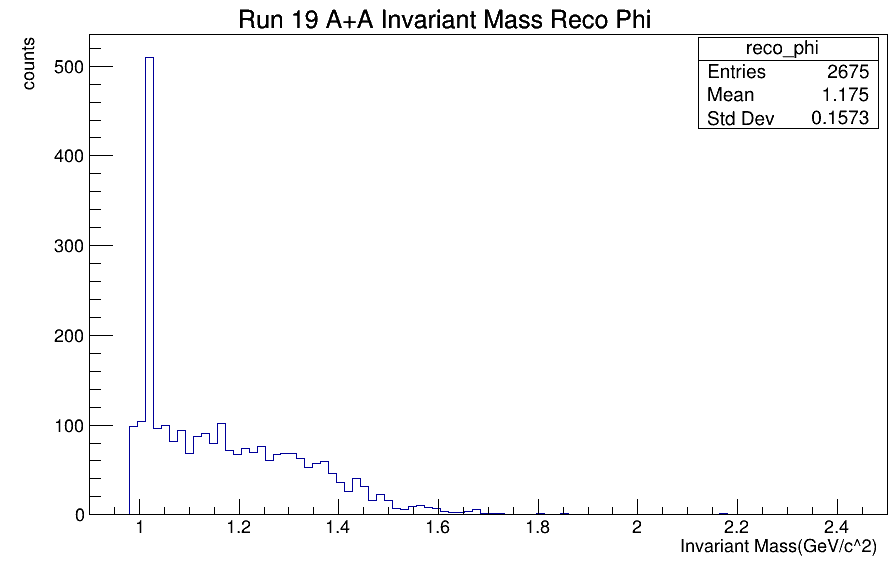
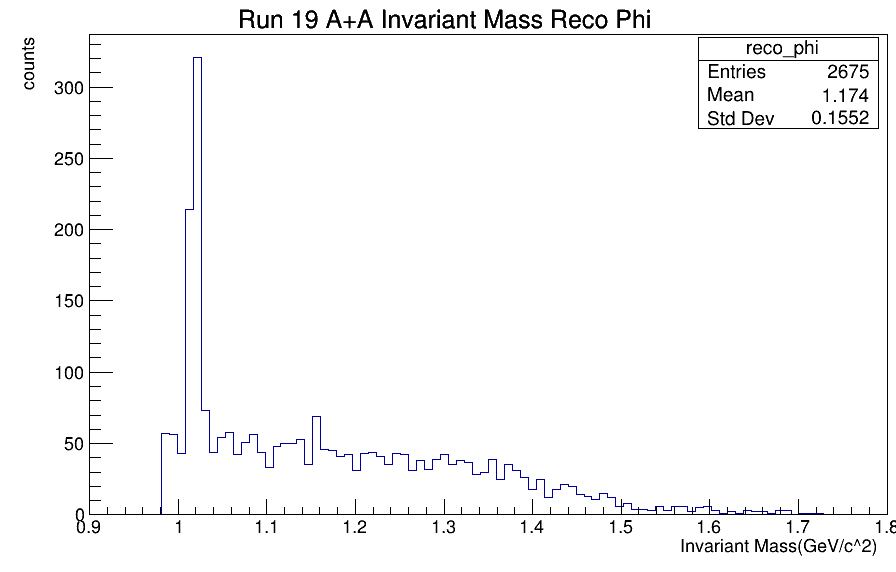
added starlight electron histogram

diff --git a/phi_selection_pt_resolution/daughter_distribution.C b/phi_selection_pt_resolution/daughter_distribution.C
@@ -26,25 +26,23 @@ void makeCan() {
 void daughter_distribution() {
 
   // histograms for all tracks
-  TH1F *all_DCA =
-      new TH1F("All Tracks", "Run 19 A+A DCA All Tracks;DCA;counts",
-               100, 0., 3.);
+  TH1F *all_DCA = new TH1F("All Tracks", "Run 19 A+A DCA All Tracks;DCA;counts",
+                           100, 0., 3.);
 
-  TH1F *all_pt = new TH1F("All Tracks",
-                          "Run 19 A+A P_{T} All Tracks;P_T(GeV/c);counts",
-                          100, 0., 1.8);
+  TH1F *all_pt =
+      new TH1F("All Tracks", "Run 19 A+A P_{T} All Tracks;P_T(GeV/c);counts",
+               100, 0., 1.8);
   TH1F *all_eta = new TH1F(
       "All Tracks", "Run 19 A+A #eta All Tracks;#eta;counts", 100, -4., 4.);
   TH1F *all_phi =
-      new TH1F("All Tracks", "Run 19 A+A #phi All Tracks;#phi(rad);counts",
-               100, -3.15, 3.15);
-  TH1F *all_Npion =
-      new TH1F("All Tracks",
-               "Run 19 A+A N#sigma#pi All Tracks;(N#sigmaPion);counts",
-               100, -10, 10);
-  TH1F *all_Nkaon = new TH1F(
-      "All Tracks", "Run 19 A+A N#sigmaK All Tracks;(N#sigmaKaon);counts",
+      new TH1F("All Tracks", "Run 19 A+A #phi All Tracks;#phi(rad);counts", 100,
+               -3.15, 3.15);
+  TH1F *all_Npion = new TH1F(
+      "All Tracks", "Run 19 A+A N#sigma#pi All Tracks;(N#sigmaPion);counts",
       100, -10, 10);
+  TH1F *all_Nkaon = new TH1F(
+      "All Tracks", "Run 19 A+A N#sigmaK All Tracks;(N#sigmaKaon);counts", 100,
+      -10, 10);
 
   // histogram for kaon canidataes
   TH1F *kaon_DCA =
@@ -55,28 +53,27 @@ void daughter_distribution() {
       "Kaon Candidates", "Run 19 A+A P_{T} Kaon Candidates;P_{T}(GeV/c);counts",
       100, 0., 1.);
   TH1F *kaon_eta =
-      new TH1F("Kaon Candidates",
-               "Run 19 A+A #eta Kaon Candidates;#eta;counts", 100, -2., 2.);
-  TH1F *kaon_phi = new TH1F(
-      "Kaon Candidates", "Run 19 A+A #phi Kaon Candidates;#phi(rad);counts",
-      100, -3.15, 3.15);
-  TH1F *kaon_Npion =
-      new TH1F("Kaon Candidates",
-               "Run 19 A+A N#sigmaPion Kaon Candidates;N#sigmaPion;counts",
-               100, 5, 30);
-  TH1F *kaon_Nkaon =
-      new TH1F("Kaon Cnadidates",
-               "Run 19 A+A N#sigmaKaon Kaon Candidates;N#sigmaKaon;counts",
-               100, -5, 5);
+      new TH1F("Kaon Candidates", "Run 19 A+A #eta Kaon Candidates;#eta;counts",
+               100, -2., 2.);
+  TH1F *kaon_phi = new TH1F("Kaon Candidates",
+                            "Run 19 A+A #phi Kaon Candidates;#phi(rad);counts",
+                            100, -3.15, 3.15);
+  TH1F *kaon_Npion = new TH1F(
+      "Kaon Candidates",
+      "Run 19 A+A N#sigmaPion Kaon Candidates;N#sigmaPion;counts", 100, 5, 30);
+  TH1F *kaon_Nkaon = new TH1F(
+      "Kaon Cnadidates",
+      "Run 19 A+A N#sigmaKaon Kaon Candidates;N#sigmaKaon;counts", 100, -5, 5);
 
   TH1F *kaon_pm_ratio = new TH1F(
       "Kaon Candidates",
       "Run 19 A+A Charge Sum Kaon Candidates;Charge Sum;counts", 27, -2.2, 2.2);
 
   // histogram for reco phi
-  TH1F *reco_phi_mass =
-      new TH1F("reco_phi ", "Run 19 A+A Invariant Mass Reco Phi ;Invariant Mass(GeV/c^2);counts",
-               100, 0.9, 2.5);
+  TH1F *reco_phi_mass = new TH1F(
+      "reco_phi ",
+      "Run 19 A+A Invariant Mass Reco Phi ;Invariant Mass(GeV/c^2);counts", 100,
+      0.9, 1.8);
 
   TH1F *reco_phi_pt =
       new TH1F("reco_phi ", "Run 19 A+A P_{T} Reco Phi ;P_{T}(GeV/c);counts",
@@ -86,12 +83,13 @@ void daughter_distribution() {
       "reco_phi ", "Run 19 A+A #eta Reco Phi ;#eta;counts", 100, -4., 4.);
 
   TH1F *reco_phi_phi =
-      new TH1F("reco_phi ", "Run 19 A+A #phi Reco Phi ;#phi(rad);counts",
-               100, -3.15, 3.15);
+      new TH1F("reco_phi ", "Run 19 A+A #phi Reco Phi ;#phi(rad);counts", 100,
+               -3.15, 3.15);
 
   // histogram for same charge
   TH1F *KpKp_mass = new TH1F(
-      "KpKp ", "Run 19 A+A Invariant Mass K+K+ ;Invariant Mass(GeV/c^2);counts", 100, 0.9, 1.5);
+      "KpKp ", "Run 19 A+A Invariant Mass K+K+ ;Invariant Mass(GeV/c^2);counts",
+      100, 0.9, 1.5);
 
   TH1F *KpKp_pt = new TH1F(
       "KpKp ", "Run 19 A+A P_{T} K+K+ ;P_{T}(GeV/c);counts", 100, 0., 1.6);
@@ -99,11 +97,12 @@ void daughter_distribution() {
   TH1F *KpKp_eta =
       new TH1F("KpKp ", "Run 19 A+A #eta K+K+ ;#eta;counts", 100, -4., 4.);
 
-  TH1F *KpKp_phi = new TH1F(
-      "KpKp ", "Run 19 A+A #phi K+K+ ;#phi(rad);counts", 100, -3.15, 3.15);
+  TH1F *KpKp_phi = new TH1F("KpKp ", "Run 19 A+A #phi K+K+ ;#phi(rad);counts",
+                            100, -3.15, 3.15);
 
   TH1F *KmKm_mass = new TH1F(
-      "KmKm ", "Run 19 A+A Invariant Mass K-K- ;Invariant Mass(GeV/c^2);counts", 100, 0.9, 1.8);
+      "KmKm ", "Run 19 A+A Invariant Mass K-K- ;Invariant Mass(GeV/c^2);counts",
+      100, 0.9, 1.8);
 
   TH1F *KmKm_pt = new TH1F(
       "KmKm ", "Run 19 A+A P_{T} K-K- ;P_{T}(GeV/c);counts", 100, 0., 1.6);
@@ -111,9 +110,24 @@ void daughter_distribution() {
   TH1F *KmKm_eta =
       new TH1F("KmKm ", "Run 19 A+A #eta K-K- ;#eta;counts", 100, -4., 4.);
 
-  TH1F *KmKm_phi = new TH1F(
-      "KmKm ", "Run 19 A+A #phi K-K- ;#phi(rad);counts", 100, -3.15, 3.15);
+  TH1F *KmKm_phi = new TH1F("KmKm ", "Run 19 A+A #phi K-K- ;#phi(rad);counts",
+                            100, -3.15, 3.15);
 
+  TH1F *like_sign_mass = new TH1F("like_sign ",
+                                  "Run 19 A+A Invariant Mass Like Sign Kaons "
+                                  ";Invariant Mass(GeV/c^2);counts",
+                                  100, 0.9, 1.8);
+
+  TH1F *like_sign_pt = new TH1F(
+      "like_sign ", "Run 19 A+A P_{T} Like Sign Kaons ;P_{T}(GeV/c);counts",
+      100, 0., 1.6);
+
+  TH1F *like_sign_eta =
+      new TH1F("like_sign ", "Run 19 A+A #eta Like Sign Kaons ;#eta;counts",
+               100, -4., 4.);
+
+  TH1F *like_sign_phi = new TH1F(
+      "like_sign ", "Run 19 A+A #phi K-K- ;#phi(rad);counts", 100, -3.15, 3.15);
   // Open the file containing the tree (INPUT data).
   TFile *myFile = TFile::Open("input.root");
 
@@ -192,12 +206,23 @@ void daughter_distribution() {
         KpKp_mass->Fill(lv.M());
         KpKp_eta->Fill(lv.Eta());
         KpKp_phi->Fill(lv.Phi());
+
+        like_sign_pt->Fill(lv.Pt());
+        like_sign_mass->Fill(lv.M());
+        like_sign_eta->Fill(lv.Eta());
+        like_sign_phi->Fill(lv.Phi());
+
       } else if (pair->mChargeSum == 2) {
         kaon_pm_ratio->Fill(pair->mChargeSum);
         KmKm_pt->Fill(lv.Pt());
         KmKm_mass->Fill(lv.M());
         KmKm_eta->Fill(lv.Eta());
         KmKm_phi->Fill(lv.Phi());
+
+        like_sign_pt->Fill(lv.Pt());
+        like_sign_mass->Fill(lv.M());
+        like_sign_eta->Fill(lv.Eta());
+        like_sign_phi->Fill(lv.Phi());
       }
     }
 
@@ -205,6 +230,7 @@ void daughter_distribution() {
 
   makeCan();
   kaon_pm_ratio->Draw();
+  gPad->Print("./Plots/kaon_charge.png");
 
   makeCan();
   all_DCA->Draw();
@@ -281,4 +307,17 @@ void daughter_distribution() {
   makeCan();
   KmKm_mass->Draw();
   gPad->Print("./Plots/kmkm_mass.png");
- }
+
+  makeCan();
+  like_sign_pt->Draw();
+  gPad->Print("./Plots/ls_pt.png");
+  makeCan();
+  like_sign_mass->Draw();
+  gPad->Print("./Plots/ls_mass.png");
+  makeCan();
+  like_sign_eta->Draw();
+  gPad->Print("./Plots/ls_eta.png");
+  makeCan();
+  like_sign_phi->Draw();
+  gPad->Print("./Plots/ls_phi.png");
+}

diff --git a/phi_KK_toy_model/toy_model_main.cpp b/phi_KK_toy_model/toy_model_main.cpp
@@ -5,6 +5,7 @@
 #include <TCanvas.h>
 #include <TFile.h>
 #include <TH1.h>
+#include <TF1.h>
 #include <TH1F.h>
 #include <TH2F.h>
 #include <TLegend.h>
@@ -25,6 +26,8 @@ double BRANCHING_RATIO = 0.6356;
 double NEUTRINO_MASS = MUON_MASS / 1000.;
 int PHI_SAMPLE_SIZE = 150000;
 int RHO_SAMPLE_SIZE = 10 * PHI_SAMPLE_SIZE;
+
+void add_electron_to_histogram(TH1F* hist);
 
 int main(int argc, char **argv) {
   // create vectors for parent vector and daughter vectors
@@ -212,3 +215,9 @@ int main(int argc, char **argv) {
   app.Run();
   return 0;
 }
+
+void add_electron_to_histogram(TH1F* hist, int peak_count, double mass_min, double mass_max){
+
+}
+
+

diff --git a/phi_KK_toy_model/Selection_routines.cpp b/phi_KK_toy_model/Selection_routines.cpp
@@ -119,7 +119,6 @@ double Selector::get_NSigmaPion(TLorentzVector *lv_ptr)
   {
     NSigmaPion = (dEdxKaon_rc - dEdxPion_mc) / sigma;
     return NSigmaPion;
-    // case for pion mass
   }
   else
   {
